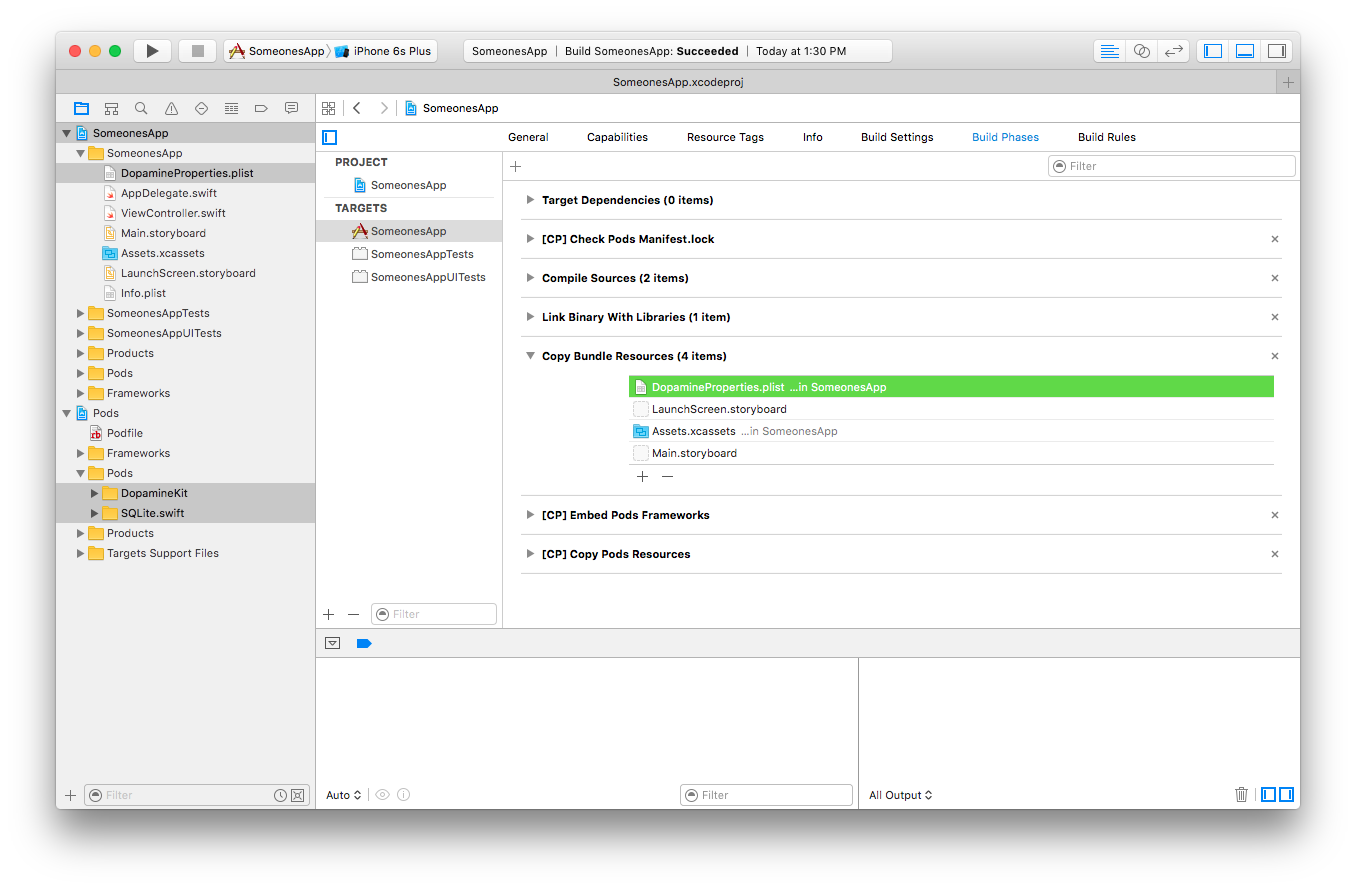
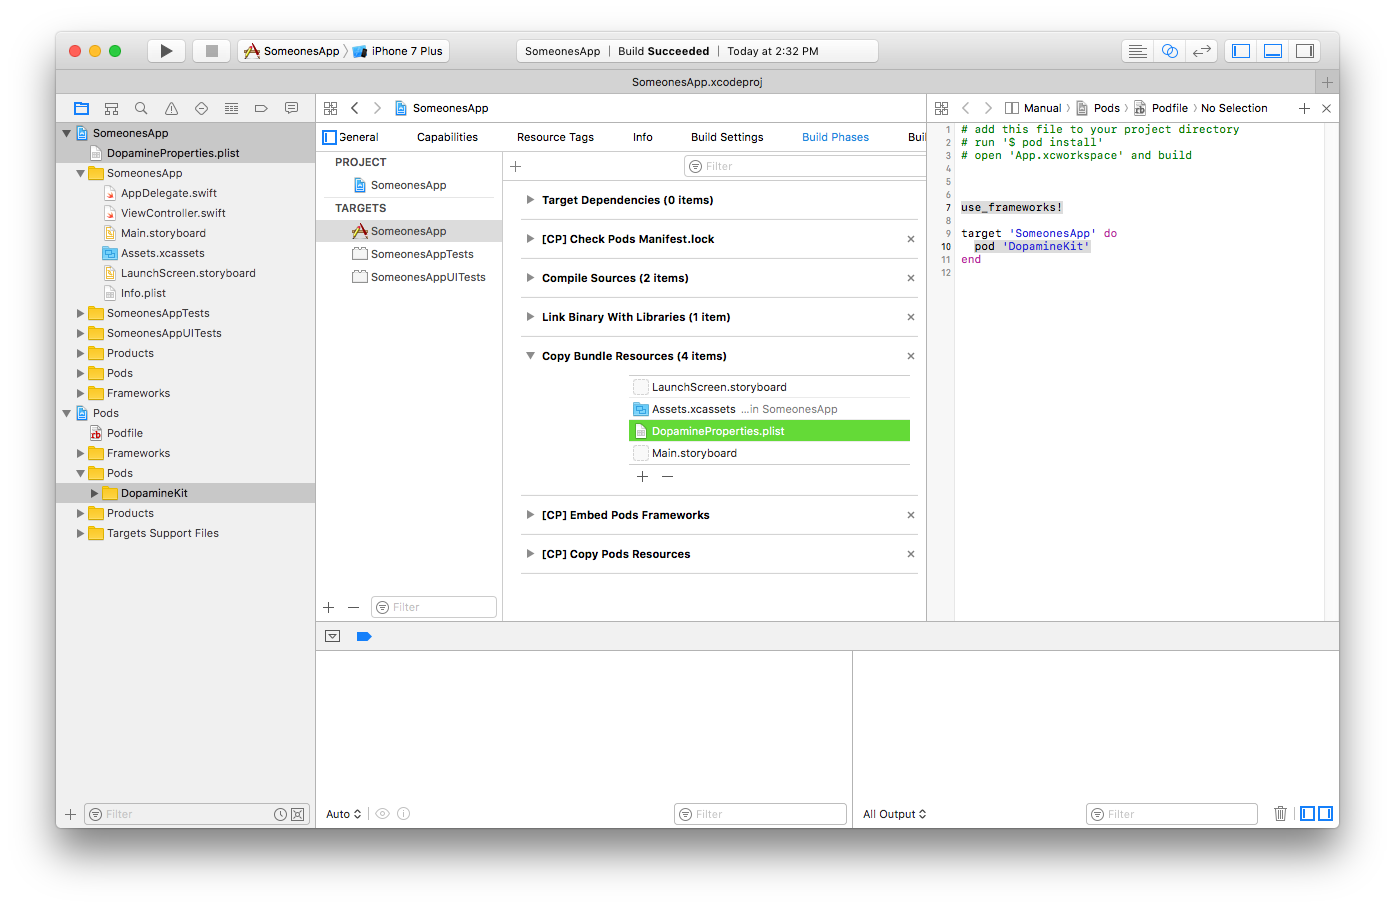
updated Readme

diff --git a/README.md b/README.md
@@ -17,17 +17,20 @@ A simple "To Do List" iOS App is included in the [DopamineKit-iOS-HelloWorld rep
 
 ## Set up DopamineKit
 
-  1. First, make sure you have received your API key and other credentials, which are in the configuration file __DopamineProperties.plist__.
+  1. First make sure you have a __DopamineProperties.plist__ file, which includes your API key and other credentials.
 
-  2. Drag __DopamineProperties.plist__ into your project group. Ensure that the .plist was added to app target > Build Phases > Copy Bundle Resources as shown in the image below.  
+  2. Go to your project's `App Target` > `Build Phases` > `Copy Bundle Resources`, and then drag and drop in __DopamineProperties.plist__ with the "Copy items if needed" box checked.  
 
-  3. Import the DopamineKit framework by using [CocoaPods](https://cocoapods.org/) (the Pod name is `DopamineKit`), or by [directly downloading](
-https://github.com/DopamineLabs/DopamineKit-iOS-binary/) the framework.
+  3. Add the following line to your [CocoaPod Podfile](https://cocoapods.org/)
+
+	```
+	pod 'DopamineKit'
+	```
 
   ![Workspace snapshot](readme/TestApp_with_DopamineKit_and_DopamineProperties.png)
-    *Shown is a Swift project using the CocoaPods dependency manager*
+    *By step 3 your project should have the highlighted items shown in the image above*
     
-  4. Import the DopamineKit framework
+  4. Import DopamineKit into your code
 
   ```swift
   // Swift
@@ -39,7 +42,7 @@ https://github.com/DopamineLabs/DopamineKit-iOS-binary/) the framework.
   #import <DopamineKit/DopamineKit-Swift.h>
   ```
   
-  5. Start using Dopamine! The main features of DopamineAPI are the `reinforce()` and `track()` functions. These should be added as a response to any of the _actions_ to be reinforced or tracked.
+  5. Start using Dopamine! The main features of DopamineKit are the `reinforce()` and `track()` functions. These should be added as a response to any of the _actions_ to be reinforced or tracked.
   
 
 ###### DopamineKit.reinforce()
